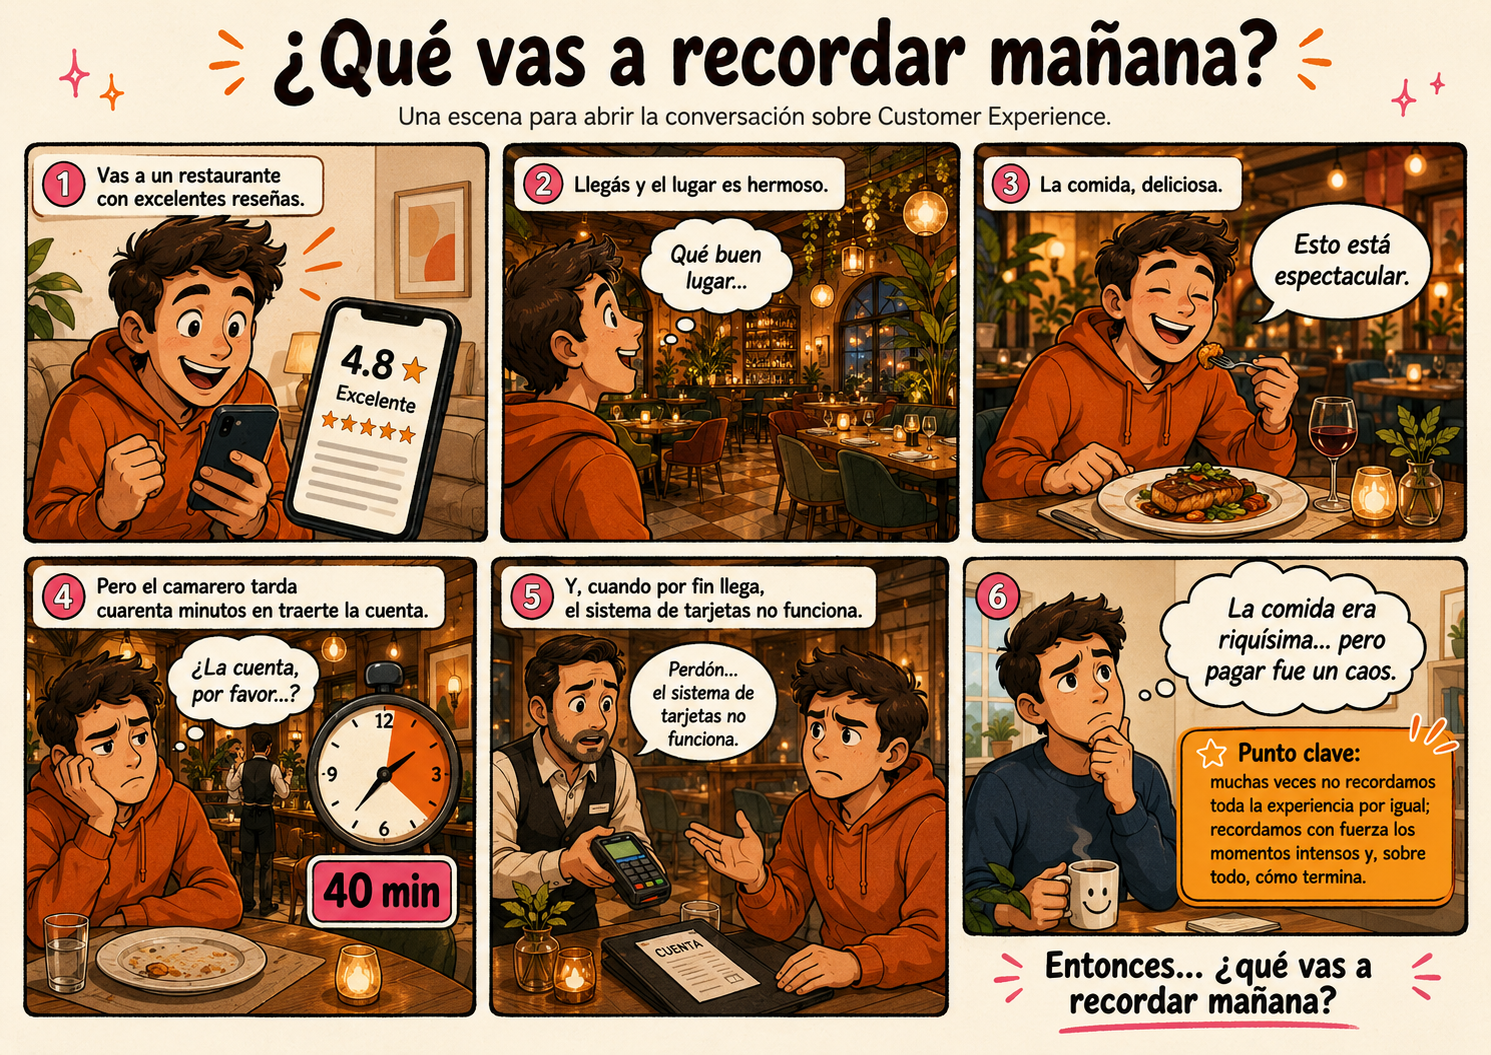
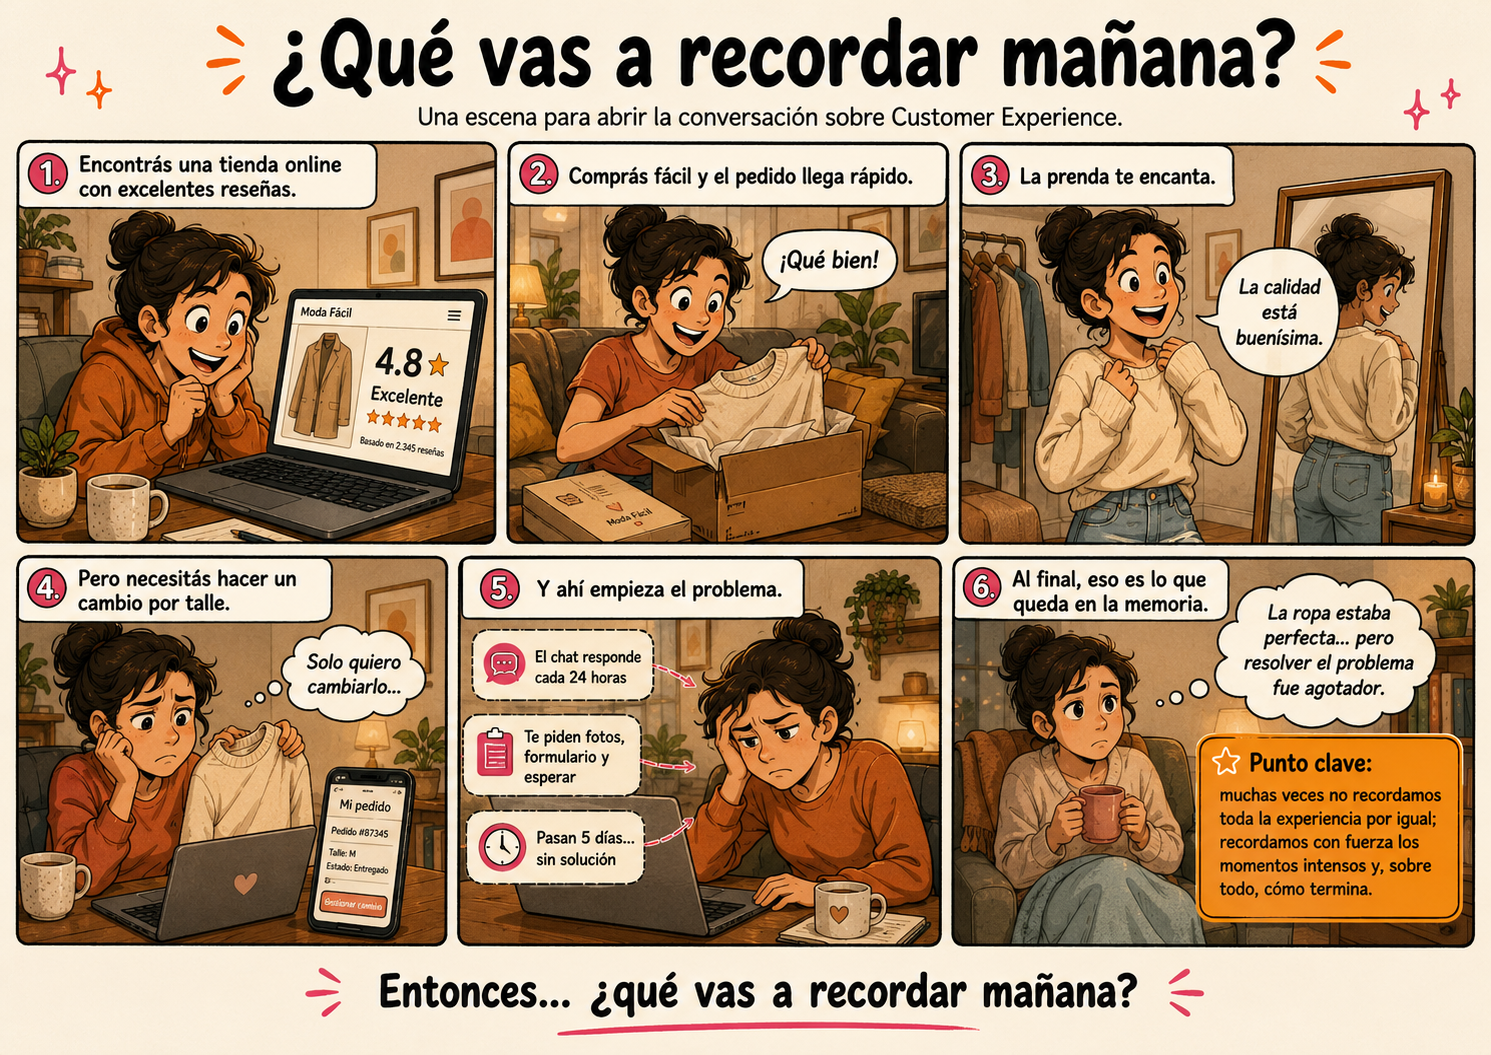
Pilar 1

diff --git a/cx3.html b/cx3.html
@@ -68,6 +68,38 @@
           `
         },
         {
+          title: 'Embudo de Ventas o Journey Customer Map',
+          html: `
+            <div class="image-slide">
+              <img src="img/CX_embudo.png" alt="Journey Customer" />
+            </div>
+          `
+        },
+        {
+          title: 'Embudo de Ventas o Journey Customer Map',
+          html: `
+            <div class="image-slide">
+              <img src="img/CX_airbnb.png" alt="Journey Customer" />
+            </div>
+          `
+        },
+        {
+          title: 'CJM - Pilar 1 Buyer Persona',
+          html: `
+            <div class="image-slide">
+              <img src="img/CX_1.png" alt="Journey Customer" />
+            </div>
+          `
+        },
+        {
+          title: 'CJM - Pilar 1 Buyer Persona',
+          html: `
+            <div class="image-slide">
+              <img src="img/CX_origenbuyer.png" alt="Journey Customer" />
+            </div>
+          `
+        },
+        {
           title: 'Resumen - Journey Customer',
           html: `
             <div class="image-slide">
